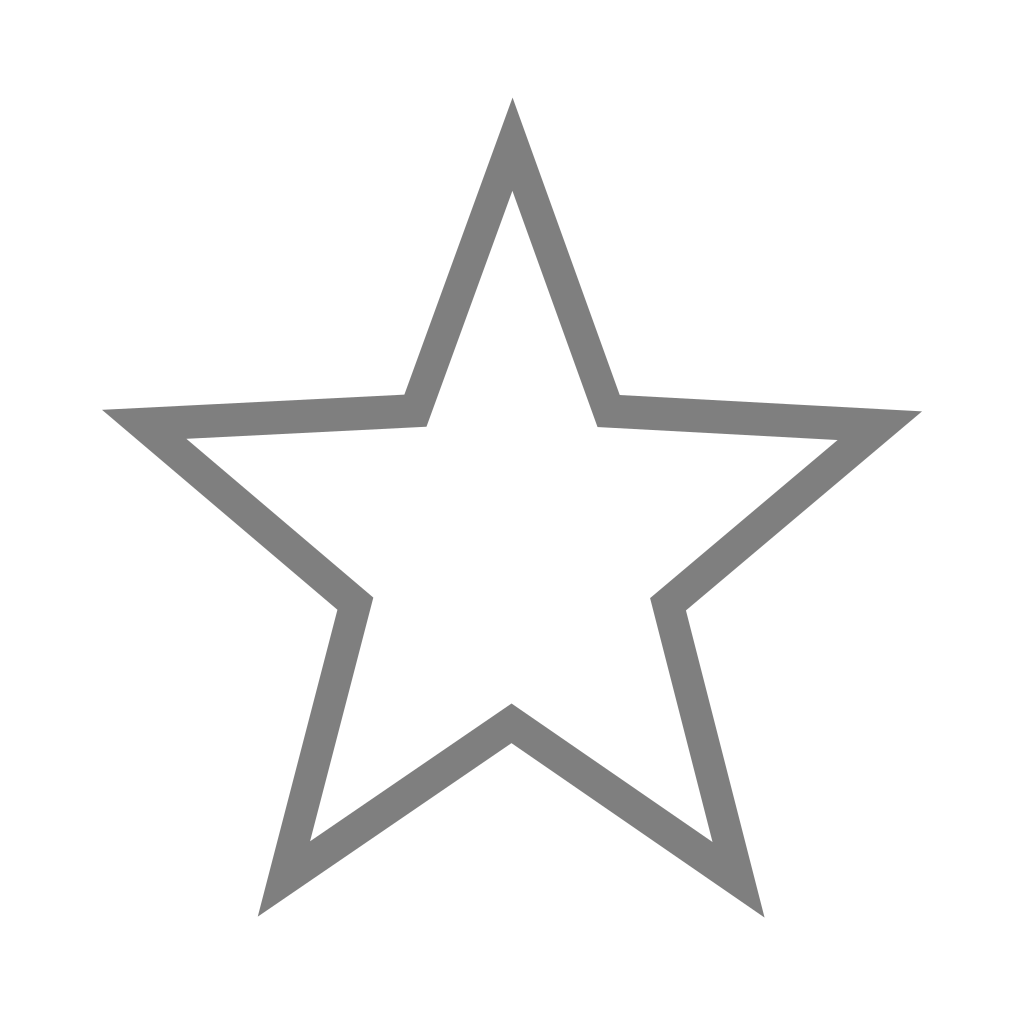
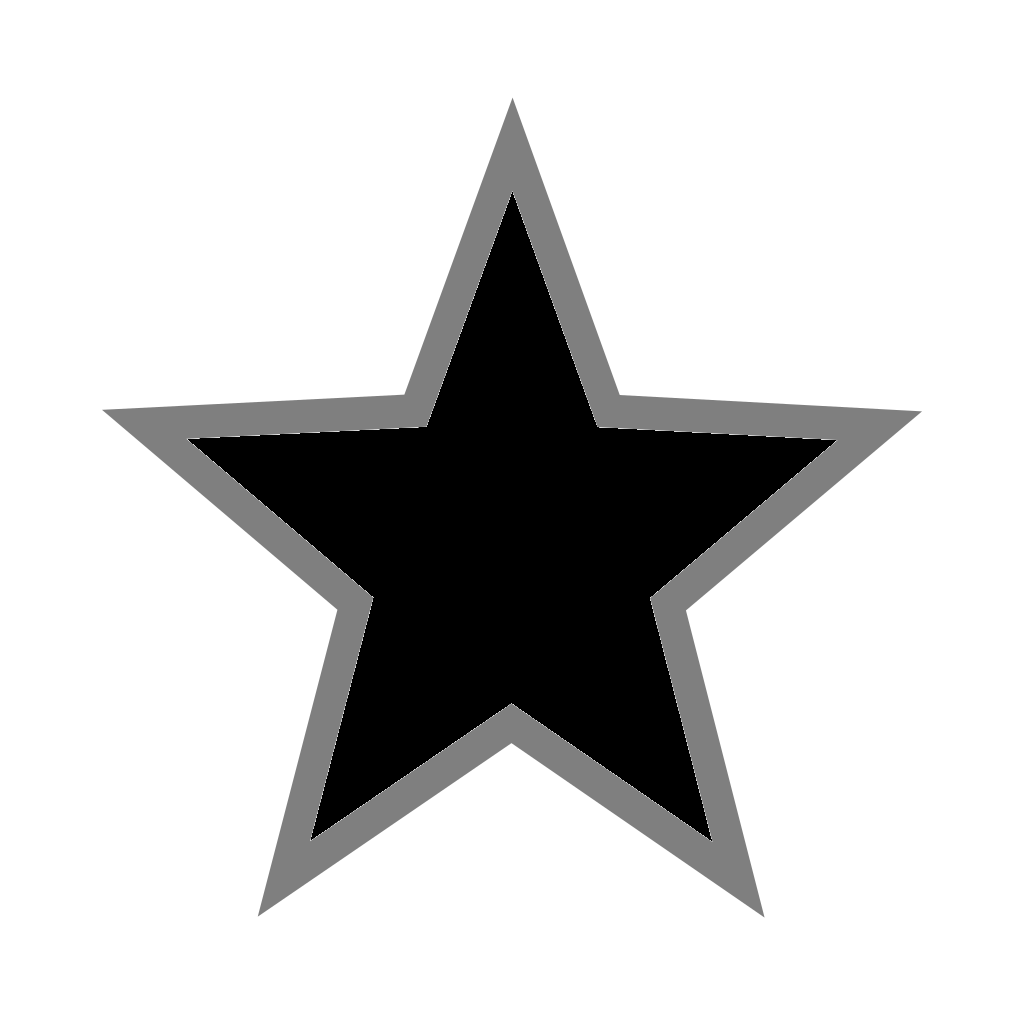
added popup on card click + added 2 stars imaghes

Changed region(s): [[0.1875, 0.1875, 0.8125, 0.8125]]

diff --git a/src/js/info-popup.js b/src/js/info-popup.js
@@ -1,13 +1,18 @@
 document.querySelector('#close-popup-area').onclick = closeInfoPopup;
 
 function openInfoPopup(element) {
+  if(element.srcElement.parentElement.className == "root-star") return;
+  element = element.srcElement;
+  while(element.className !== "root"){
+    element = element.parentElement;
+  }
   document.getElementById("close-popup-area").style.display = "block";
   document.getElementById("tree-structrure-content").style.filter = "blur(6px)";
   document.getElementById("connector-lines").style.filter = "blur(6px)";
-  document.getElementById("info-popup-star-button").style["background-color"] = element.parentElement.parentElement.style["background-color"];
-  document.getElementById("popupInfo").setAttribute("target-id", element.parentElement.parentElement.id)
+  document.getElementById("info-popup-star-button").style["background-color"] = element.style["background-color"];
+  document.getElementById("popupInfo").setAttribute("target-id", element.id)
 
-  targetNode = reakcia.filter(function(e){return e.name === element.parentElement.parentElement.id.replace(/-/g, " ")})[0];
+  targetNode = reakcia.filter(function(e){return e.name === element.id.replace(/-/g, " ")})[0];
   let description = (targetNode.description ? targetNode.description : "").split("\n").map(e=>`<div class="info-popup-popis-div">${e}</div>`).join('');
   document.getElementById("info-popup-name").innerHTML = targetNode.name;
   document.getElementById("info-popup-popis").innerHTML = description;
@@ -25,3 +30,4 @@ function closeInfoPopup(event) {
 
 }
 
+document.querySelector('.root').onclick = openInfoPopup;

diff --git a/src/js/scripts.js b/src/js/scripts.js
@@ -107,23 +107,28 @@ function loadResource(path){
 function markStar(element){
 	if(element.parentElement.parentElement.style["background-color"] == ""){
 		element.parentElement.parentElement.style["background-color"] = "yellow"
+		element.firstElementChild.setAttribute("src", "src/images/star-active.png");
 	} else {
 		element.parentElement.parentElement.style["background-color"] = ""
+		element.firstElementChild.setAttribute("src", "src/images/star.png");
 	}
 }
 
 function markStarFromPopUp(element){
+	const target = element.parentElement.parentElement.getAttribute("target-id");
 
 	if(element.style["background-color"] == ""){
 		element.style["background-color"] = "yellow";
 		document.getElementById("info-popup-star-button-text").innerHTML = "Vymazať";
+		document.getElementById(target).lastElementChild.firstElementChild.firstElementChild.setAttribute("src", "src/images/star-active.png");
 	} else {
 		element.style["background-color"] = "";
 		document.getElementById("info-popup-star-button-text").innerHTML = "Označiť";
+		document.getElementById(target).lastElementChild.firstElementChild.firstElementChild.setAttribute("src", "src/images/star.png");
 	}
-	const target = element.parentElement.parentElement.getAttribute("target-id");
 
 	document.getElementById(target).style["background-color"] = element.style["background-color"]
+
 
 }
 

diff --git a/src/html/node.html b/src/html/node.html
@@ -4,7 +4,7 @@
         <div class="root-icons">
             <button class="root-star" onclick="markStar(this)"><img style="max-width: 40px;" src="src/images/star.png" alt="info" ></button>
             
-            <button class="root-info" onclick="openInfoPopup(this)"><img  style="max-width: 40px;" src="src/images/info.png" alt="star"></button>
+            <button class="root-info"><img  style="max-width: 40px;" src="src/images/info.png" alt="star"></button>
         </div>
     </div>
     <div class="childs"> 

diff --git a/src/css/styles.css b/src/css/styles.css
@@ -36,6 +36,7 @@ body {
     display: block;
     color:black;
     font-weight:600;
+    cursor: pointer;
 
 }
 
@@ -55,6 +56,7 @@ body {
 
     width: 100%; 
     margin-bottom: 3px;
+    z-index: 2;
 
 }
 
